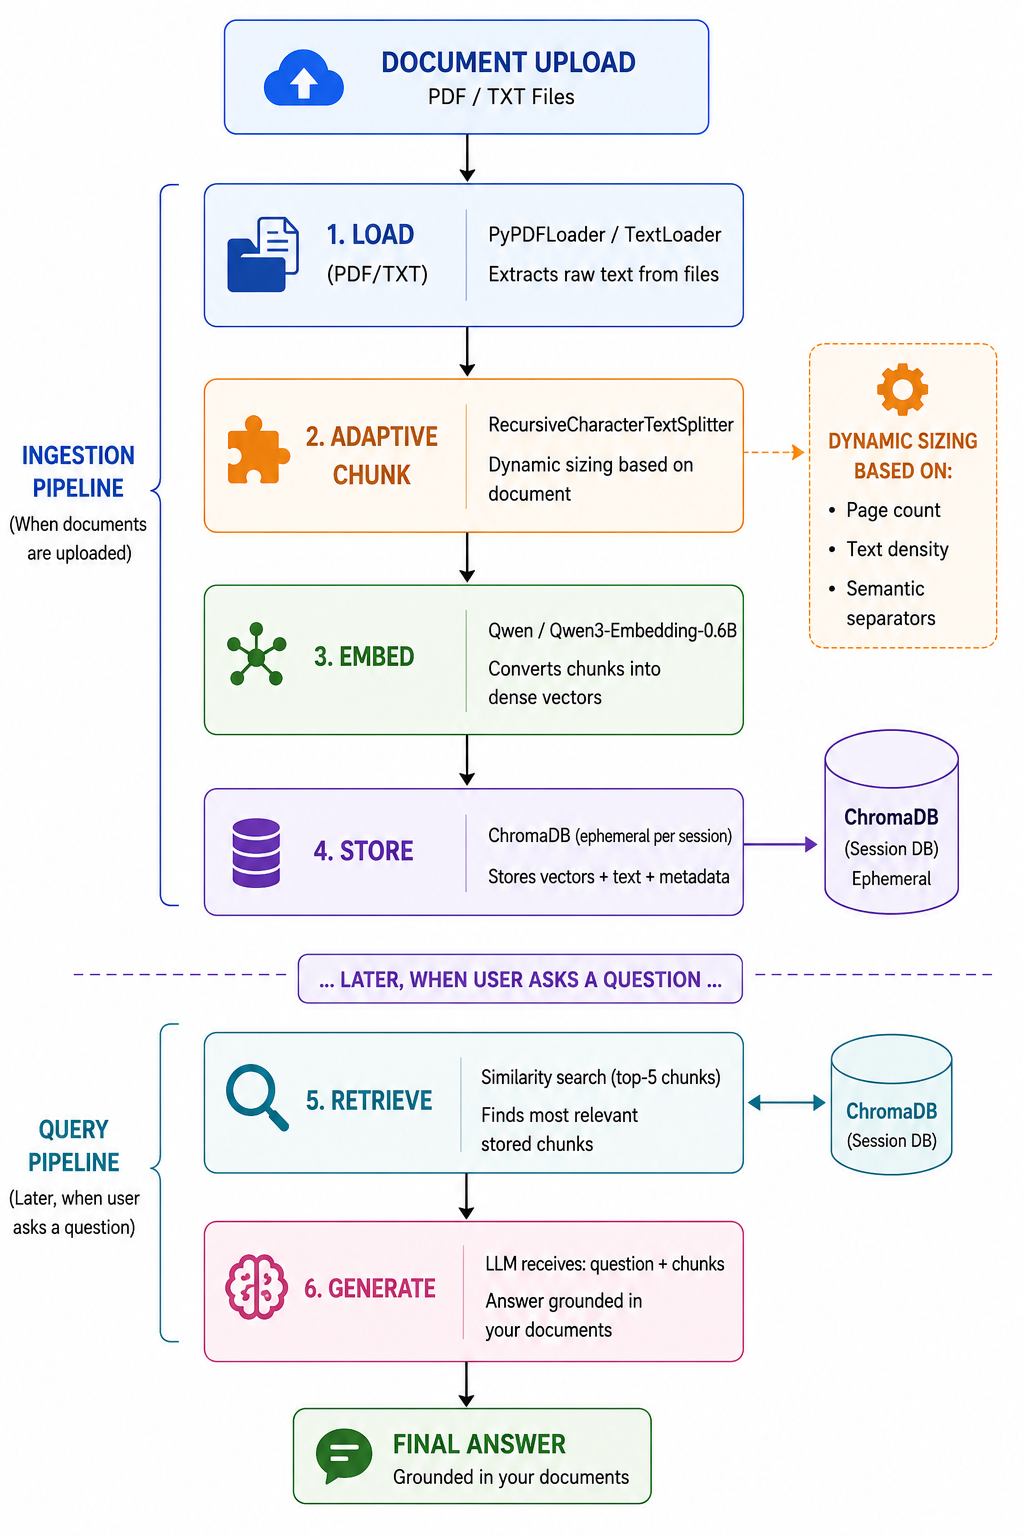
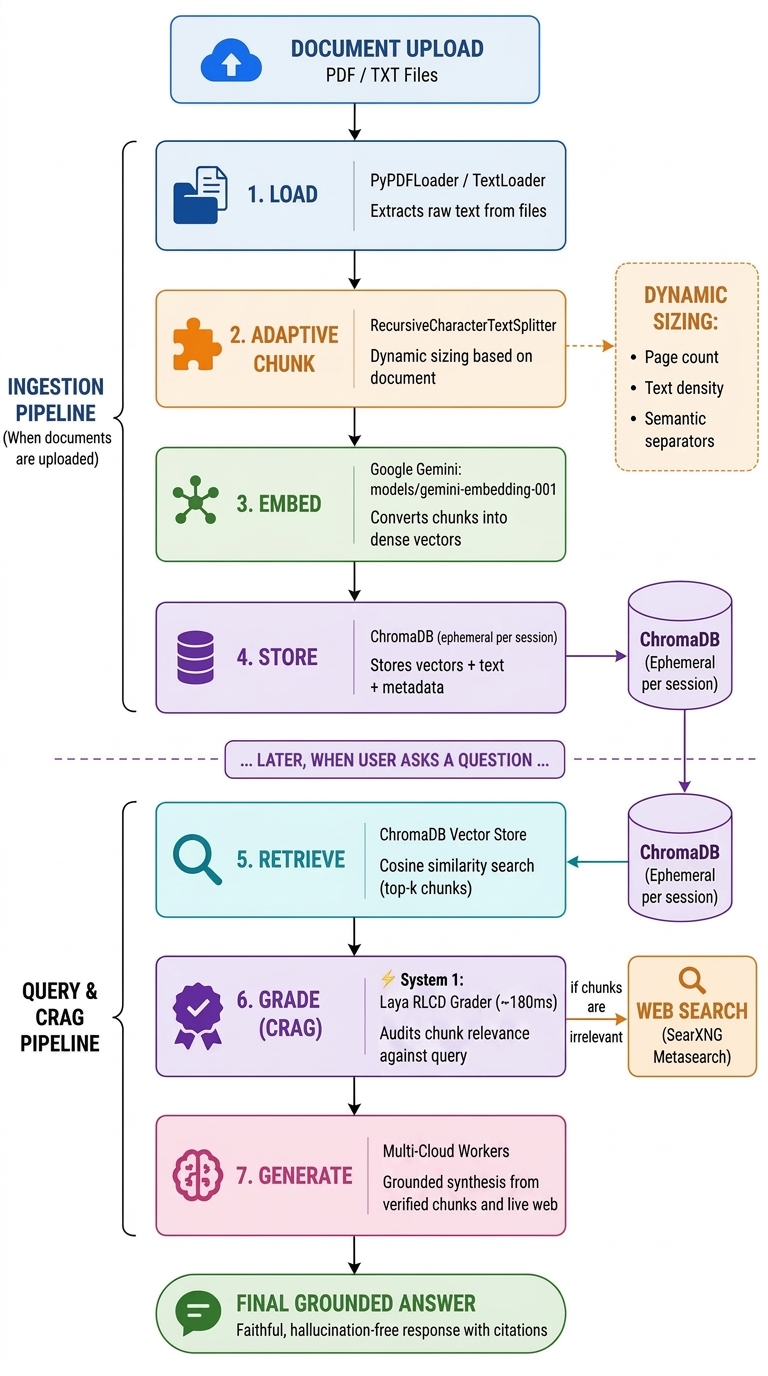
docs: replace dark Mermaid diagrams with crisp white-background flowcharts and sanitize config examples

Changed region(s): [[0.0, 0.0, 1.0, 1.0]]

diff --git a/docs/02_Architecture_and_Workflow.md b/docs/02_Architecture_and_Workflow.md
@@ -26,66 +26,17 @@ SPARK AI implements a **Dual-Process Cognitive Architecture** inspired by Daniel
 
 ---
 
-## Dual-Process Workflow Diagram
+## Dual-Process Workflow Architecture
 
-```mermaid
-flowchart TD
-    subgraph ClientPlane["Client Interaction"]
-        User["User Request"] --> Entry["FastAPI /chat or /chat/stream"]
-    end
+![Dual-Process Workflow Architecture](images/architecture_v3.png)
 
-    subgraph SystemOnePlane["⚡ System 1: Laya Decision Engine (Non-Autoregressive RLCD)"]
-        LayaTriage["🛡 Greeting & Intent Reflex\n(is_greeting noul + multilingual)"]
-        LayaCRAG["📑 CRAG Relevance Scorer\n(doc_relevance choice + 0-2 score)"]
-        LayaRouter["🚦 Model Router Reflex\n(task_type choice: coding / creative / general)"]
-        LayaVerify["🔬 Universal Verification\n(faithfulness choice: faithful vs hallucinated)"]
-    end
-
-    subgraph SystemTwoPlane["🧠 System 2: Generative Multi-Cloud Ensemble"]
-        SafetyGate["🔒 Nemotron Guardrail\n(Prompt Injection & Toxic Audit)"]
-        FastReply["⚡ Quick Greeter\n(GPT-OSS 120B / Direct)"]
-        Planner["📋 Planner Node\n(Gemini 3.1 Flash-Lite)"]
-        WebSearch["🌐 SearXNG Web Search\n(Live Internet Grounding)"]
-        ChromaStore["📚 ChromaDB Hybrid Store\n(Gemini Embeddings + BM25)"]
-        CodingWorker["💻 Coding Worker\n(Gemini 3.5 Flash / Qwen 2.5 Coder)"]
-        CreativeWorker["🎨 Creative Worker\n(Mistral Small 24B)"]
-        GeneralWorker["📖 General Worker\n(Llama 3.3 70B / GPT-OSS 120B)"]
-        DeepValidator["✅ Deep Grounding Validator\n(Gemini 3.1 Flash-Lite)"]
-        Evaluator["✨ Final Polisher\n(Nemotron 3 Super)"]
-    end
-
-    subgraph ObservabilityPlane["🔭 Control Plane (Langfuse)"]
-        Registry["Prompt Registry (11 Managed Prompts)"]
-        TraceHandler["Trace Callback (Session IDs, Tags, Timings)"]
-        ScoreLogger["Quality Score Logger"]
-    end
-
-    Entry --> TraceHandler --> SafetyGate
-    SafetyGate -->|Safe| LayaTriage
-    SafetyGate -->|Unsafe| Blocked([Canned Safety Refusal])
-
-    LayaTriage -->|Greeting: True| FastReply --> Output([Final Grounded Response])
-    LayaTriage -->|Greeting: False| Planner
-
-    Planner -->|needs_web_search| WebSearch --> ChromaStore
-    Planner -->|standard| ChromaStore
-    ChromaStore --> LayaCRAG
-
-    LayaCRAG -->|Relevant / Score >= 1.0| LayaRouter
-    LayaCRAG -->|Irrelevant / Score < 1.0| WebSearch --> LayaRouter
-
-    LayaRouter -->|coding| CodingWorker
-    LayaRouter -->|creative| CreativeWorker
-    LayaRouter -->|general| GeneralWorker
-
-    CodingWorker & CreativeWorker & GeneralWorker -->|Draft Generated| LayaVerify
-    LayaVerify -->|Hallucination Detected >= 85%| WebSearch
-    LayaVerify -->|Faithful / Borderline| DeepValidator
-
-    DeepValidator -.->|Log Score| ScoreLogger
-    DeepValidator -->|FAIL & attempt < 2| CodingWorker
-    DeepValidator -->|PASS| Evaluator --> Output
-```
+### End-to-End Execution Flow
+1. **Security Gate & Fast-Path Triage:** Every incoming prompt is evaluated for safety by `nemotron-3-nano:30b`. In parallel, System 1 Laya runs a non-autoregressive greeting reflex (`is_greeting: noul`). If recognized as a greeting, the workflow executes a sub-second conversational reflex.
+2. **Date-Aware Planning & Retrieval:** For actionable tasks, `gemini-3.1-flash-lite` decomposes the goal with temporal date awareness, retrieving relevant context from ChromaDB.
+3. **Corrective RAG (CRAG):** Retrieved document chunks are evaluated by System 1 Laya's non-autoregressive relevance head (`doc_relevance: choice` + `score`). If chunks are irrelevant or missing, live internet ground truth is retrieved via SearXNG.
+4. **Intent Dispatching & Worker Execution:** System 1 Laya classifies the task type (`coding`, `creative`, `general`) in ~140ms and routes to the specialized worker LLM.
+5. **Universal Verification & Grounding:** Generated drafts are verified by System 1 Laya (`faithfulness: choice`) in ~200ms. If hallucination is detected (≥ 85%), live web search grounding triggers re-generation.
+6. **Final Polish & Langfuse Scoring:** The draft is polished with standard LaTeX math rendering and clean Markdown by the evaluator, with quality scores published directly to Langfuse.
 
 ### 1. Root Trace Instrumentation
 - In `process_chat()` and `stream_graph_updates()`, the pipeline initializes the Langfuse `CallbackHandler`.

diff --git a/docs/06_Features_Deep_Dive.md b/docs/06_Features_Deep_Dive.md
@@ -9,26 +9,7 @@ Most multi-agent AI systems suffer from the **"Heavy LLM Monoculture"** — usin
 
 SPARK AI resolves this by implementing a **Dual-Process Cognitive Architecture** mirroring Daniel Kahneman's model of human cognition:
 
-```mermaid
-flowchart TD
-    Query["Incoming User Query"] --> S1Gate{"⚡ System 1: Laya Reflex Arc\n(Non-Autoregressive RLCD)"}
-    
-    S1Gate -->|Greeting Detected\n~150ms| QuickReply["⚡ Quick Greeter\n(Immediate Fast-Path)"]
-    S1Gate -->|Task Triage & Routing\n~140ms| Dispatcher["🚦 Specialized Agent Dispatcher"]
-    
-    Dispatcher --> Planner["📋 System 2: Planner Node\n(Gemini 3.1 Flash-Lite)"]
-    Planner --> ContextRetriever["📚 Hybrid ChromaDB RAG"]
-    
-    ContextRetriever --> S1CRAG{"⚡ System 1: CRAG Document Grader\n(ModernBERT-large ~180ms)"}
-    S1CRAG -->|Relevant| WorkerNode["🧠 System 2: Specialized Workers\n(Gemini 3.5 Flash / GPT-OSS 120B)"]
-    S1CRAG -->|Irrelevant| WebSearch["🌐 Live SearXNG Web Grounding"] --> WorkerNode
-    
-    WorkerNode --> S1Verify{"⚡ System 1: Universal Verification\n(Claim Faithfulness ~200ms)"}
-    S1Verify -->|Hallucination >= 85%| WebSearch
-    S1Verify -->|Faithful| S2Validator["✅ System 2: Deep Grounding Audit"]
-    
-    S2Validator --> Evaluator["✨ Final Polisher & LaTeX Formatter"]
-```
+![Dual-Process Cognitive Architecture](images/architecture_v3.png)
 
 ### Cognitive Distribution Metrics
 
@@ -80,6 +61,8 @@ class LayaCircuitBreaker:
    - The user experiences zero UI freeze and zero 500 errors.
 3. **HALF-OPEN (Probing):** Once the 15-second cooldown elapses, the circuit allows a single probe call. If successful, it automatically resets to CLOSED.
 
+![Stateful Circuit Breaker Architecture](images/circuit_breaker.png)
+
 ---
 
 ## 4. Enterprise Corrective RAG (CRAG) & Self-RAG Loops
@@ -111,6 +94,8 @@ Validation outputs automatically publish numeric scores to Langfuse:
 - `quality_validation = 1.0` (PASS)
 - `quality_validation = 0.0` (FAIL)
 Along with specific evaluator feedback and trace session IDs, providing real-time quality graphs on the Langfuse dashboard.
+
+![Two-Stage Universal Verification & Self-RAG Pipeline](images/verification_pipeline.png)
 
 ---
 

diff --git a/docs/05_RAG_Concepts.md b/docs/05_RAG_Concepts.md
@@ -34,6 +34,8 @@ Documents are not uniform. A 2-page invoice has entirely different structural ch
 - **Density Adaptation:** Low-density documents (e.g. presentation slides with <200 chars/page) automatically receive smaller chunks to prevent empty vectors.
 - **Semantic Separators:** Splitting prioritizes logical boundaries (`\n\n` paragraphs, `\n` linebreaks, `. ` sentence boundaries) to preserve coherent thought units.
 
+![Adaptive Document RAG Ingestion Pipeline](images/rag_pipeline.png)
+
 ### 2. High-Throughput Dense Vector Embedding
 - **Model:** Google Gemini `models/gemini-embedding-001`.
 - **Dimensionality:** 768-dimensional dense semantic vectors.
@@ -90,15 +92,8 @@ is_faithful, confidence, telemetry = laya_client.verify_claim_faithfulness(
 - **Execution Speed:** ~200ms non-autoregressive verification (vs 3.5s for an LLM audit).
 
 ### Two-Stage Verification Pipeline
-```mermaid
-flowchart LR
-    Draft["Worker Draft Response"] --> LayaUV["⚡ System 1: Universal Verification\n(Laya RLCD Faithfulness)"]
-    LayaUV -->|Hallucination Detected >= 85%| WebSearch["🌐 Live SearXNG Web Grounding\n(Fetch Ground Truth)"]
-    LayaUV -->|Faithful / Borderline| DeepVal["🧠 System 2: Deep Grounding Audit\n(Gemini 3.1 Flash-Lite)"]
-    WebSearch --> ReGenerate["✍ Worker Re-generation"]
-    DeepVal -->|Pass| Output["✨ Final Evaluator Polish"]
-    DeepVal -->|Fail| ReGenerate
-```
+
+![Two-Stage Universal Verification & Self-RAG Pipeline](images/verification_pipeline.png)
 
 1. **Stage 1 (System 1 Reflex):** If Laya detects a hallucination with ≥85% confidence, the pipeline flags the draft immediately and routes to live SearXNG search to retrieve factual grounding.
 2. **Stage 2 (System 2 Deep Reasoning):** If the draft passes System 1 verification, Gemini 3.1 Flash-Lite conducts a deep multi-dimensional check (relevance, factuality, temporal cutoff detection) using `validator_prompt`.

diff --git a/docs/03_Models_and_Agents.md b/docs/03_Models_and_Agents.md
@@ -75,16 +75,7 @@ When deep reasoning, complex code generation, or nuanced prose synthesis is requ
 
 To ensure zero downtime, all System 1 Laya interactions are encapsulated within a **Stateful Circuit Breaker** (`backend/laya_client.py`):
 
-```mermaid
-stateDiagram-v2
-    [*] --> Closed: Initial State
-    Closed --> Closed: Request Succeeds (<3.5s)
-    Closed --> Open: 5 Consecutive Failures / Timeouts
-    Open --> Open: Requests Immediately Fallback to System 2 LLMs (No Network Wait)
-    Open --> HalfOpen: Cooldown Window Expires (15s)
-    HalfOpen --> Closed: Probe Request Succeeds
-    HalfOpen --> Open: Probe Request Fails
-```
+![Stateful Circuit Breaker Architecture](images/circuit_breaker.png)
 
 1. **Closed State:** Requests are dispatched to the Laya `/v1/systemone` endpoint with a strict 3.5-second timeout.
 2. **Open State:** After 5 consecutive failures or network timeouts, the circuit trips OPEN. For the next 15 seconds, all incoming requests skip Laya entirely with 0ms network penalty, instantly delegating the decision to System 2 fallback LLMs (Gemini 3.1 Flash-Lite or Gemma-4 31B).
@@ -112,7 +103,7 @@ NVIDIA_API_KEY=your_nvidia_api_key
 
 # External Tools & Observability
 SEARXNG_URL=your_self_hosted_searxng_url
-LANGFUSE_PUBLIC_KEY=pk-lf-your_public_key
-LANGFUSE_SECRET_KEY=sk-lf-your_secret_key
+LANGFUSE_PUBLIC_KEY=your_langfuse_public_key
+LANGFUSE_SECRET_KEY=your_langfuse_secret_key
 LANGFUSE_HOST=https://cloud.langfuse.com
 ```

diff --git a/README.md b/README.md
@@ -88,8 +88,8 @@ NVIDIA_API_KEY=your_nvidia_api_key
 
 # Live Web Search & Observability
 SEARXNG_URL=your_self_hosted_searxng_url
-LANGFUSE_PUBLIC_KEY=pk-lf-your_public_key
-LANGFUSE_SECRET_KEY=sk-lf-your_secret_key
+LANGFUSE_PUBLIC_KEY=your_langfuse_public_key
+LANGFUSE_SECRET_KEY=your_langfuse_secret_key
 LANGFUSE_HOST=https://cloud.langfuse.com
 ```
 
